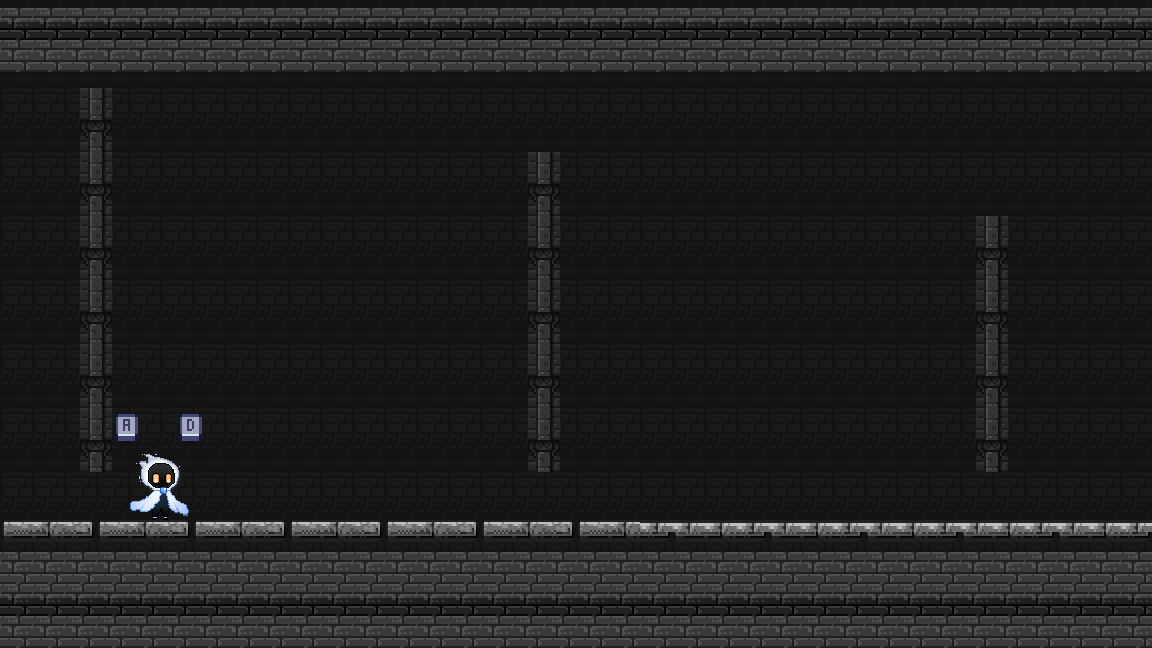
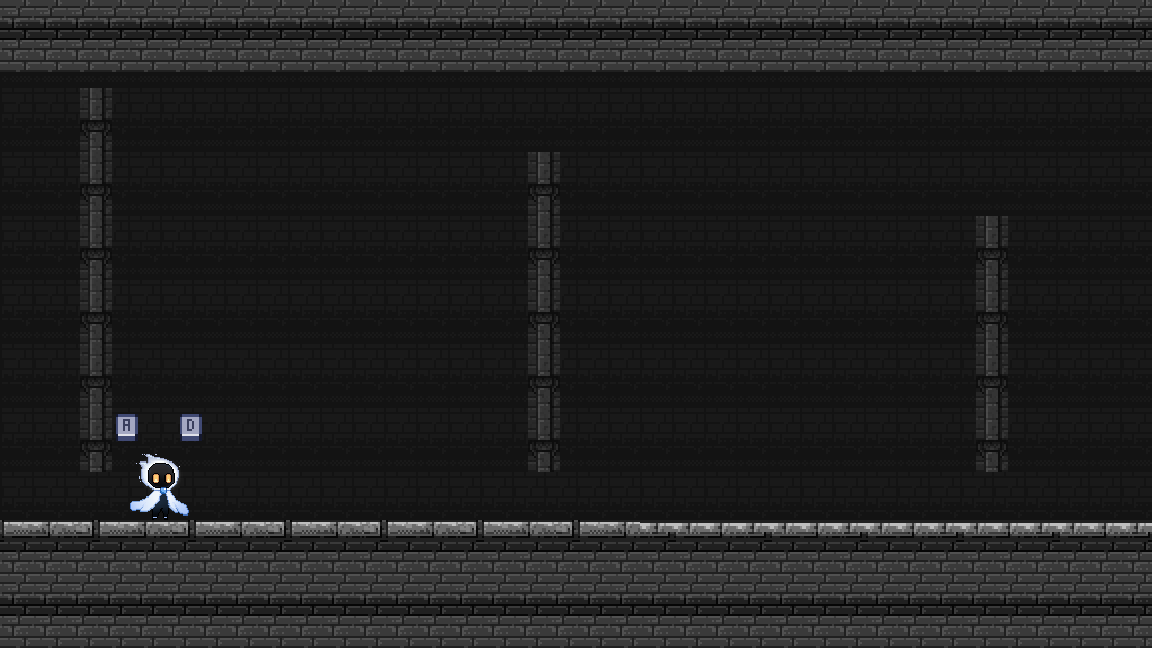
윗면 벽돌의 투명 여백 아래에 기본 타일을 채워 틈 제거

diff --git a/code/temple.py b/code/temple.py
@@ -36,10 +36,12 @@ class TempleBackground(Background):
         last = math.ceil((camera_x + SCREEN_WIDTH) / 32)
         for (col, row), tile in self.terrain.items():
             if first <= col < last:
-                # Worn stone lips above plain temple brick; no forest moss.
-                sx, sy = ((144 + (col % 3) * 16, 144) if tile in (1, 2, 3)
-                          else (96, 240 + row % 2 * 16))
-                self.tile(sx, sy, col * 32 + 16 - round(camera_x), row * 32 + 16)
+                x, y = col * 32 + 16 - round(camera_x), row * 32 + 16
+                # The stone lip has transparent padding. Keep masonry behind
+                # it so that the padding cannot expose the background.
+                self.tile(96, 240 + row % 2 * 16, x, y)
+                if tile in (1, 2, 3):
+                    self.tile(144 + (col % 3) * 16, 144, x, y)
         for platform in getattr(self.level, 'thin_platforms', []):
             for start in range(platform.left, platform.right, 32):
                 if camera_x - 32 <= start <= camera_x + SCREEN_WIDTH:
